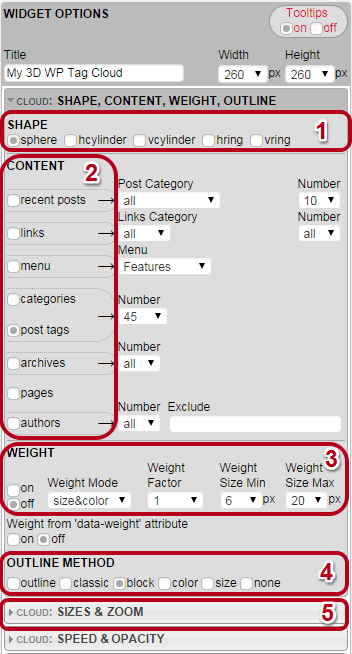
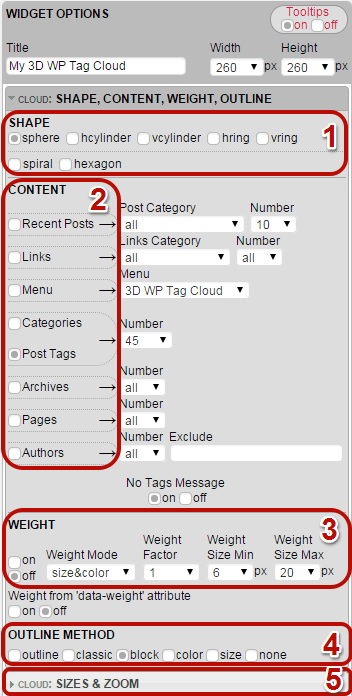
Added two new 2D shapes: spiral and hexagon.
git-svn-id: https://plugins.svn.wordpress.org/my-wp-tagcanvas/trunk@1104373 b8457f37-d9ea-0310-8a92-e5e31aec5664

diff --git a/help/s.user.guide.htm b/help/s.user.guide.htm
@@ -38,7 +38,7 @@
 						<span style='font-size:16pt;'>3D WP Tag Cloud-S User Guide</span>
 					</b>
 					<br>
-					<span style='font-size:14pt;'>Version 3.2.2</span>
+					<span style='font-size:14pt;'>Version 3.3</span>
 					<br>
 					<a href="https://wordpress.org/plugins/my-wp-tagcanvas/" target="_blank">https://wordpress.org/plugins/my-wp-tagcanvas/</a>
 				</p>
@@ -125,7 +125,7 @@
 					2. </span>
 					Choose <span class='green'>CONTENT</span>.
 				</p>
-				<p class="paragraph" style='margin: 0 0 178px'>
+				<p class="paragraph" style='margin: 0 0 236px'>
 					<i>
 						<b>N.B. </b>Depending on your choice later you may have to change the number of tags to be shown and/or where these tags come from (particular category or menu).
 					</i>
@@ -151,7 +151,7 @@
 				<p class="normal">
 					<i><b>N.B. </b>This is about tag&#8217;s reaction when mouse pointer goes over it.</i>
 				</p>
-				<p class="paragraph" style="margin: 0 0 76px;">
+				<p class="paragraph" style="margin: 0 0 16px;">
 					<span class='numbers'>
 					5. </span>
 					Go to section <span class='green'>CLOUD: SIZES &amp; ZOOM</span>.
@@ -159,7 +159,7 @@
 				<p class="normal">
 					<img width="353" height="333" src="image009.png" align="left">
 				</p>
-				<p class="paragraph" style='margin: 208px 0 0;'>
+				<p class="paragraph" style='margin: 160px 0 0;'>
 					<span class='numbers'>
 					1. </span>
 					Play with <span class='green'>Radius X</span>,
@@ -167,7 +167,8 @@
 				</p>
 				<p class="paragraph">
 					<i>
-						<b>N.B. </b>In order to avoid your tags from going beyond widget&#8217;s frame you have to fit the content of your cloud to it by these three options. Change
+						<b>N.B. </b>If a 2D shape <span class='green'>spiral</span> or <span class='green'>hexagon</span> is selected <span class='green'>Radius Z</span> is hidden. 
+						In order to avoid your tags from going beyond widget&#8217;s frame you have to fit the content of your cloud to it by these three options. Change
 						them all and equally. Otherwise you will modify the shape of the cloud. For instance if it is sphere, you can make it disk or cigar.
 					</i>
 				</p>
@@ -177,7 +178,7 @@
 					</i>
 				</p>
 
-				<p class="paragraph" style="margin: 0 0 76px;">
+				<p class="paragraph" style="margin: 0 0 56px;">
 					<span class='numbers'>
 					2. </span>
 					Go to section<span class='green'> CLOUD: SPEED &amp; OPACITY</span>.

diff --git a/js/jquery.tagcanvas.js b/js/jquery.tagcanvas.js
@@ -164,6 +164,47 @@ function PointsOnRingH(n, xr, yr, zr, offset) {
   offset = isNaN(offset) ? 0 : offset * 1;
   return Ring(1, n, xr, yr, zr, offset);
 }
+function PointsOnSpiral(n,xr,yr,zr) {
+  var px, py, pz=0, i, y = 1.4/sqrt(n), r, phi, pts = [], inc = Math.PI * (3-sqrt(5));
+  for(i = 0; i < n; i+=.7615){
+	phi = i*inc;
+	xr > 0 ? r = xr*y*sqrt(i) : r = yr*y*sqrt(i);
+	px = cos(phi)*r;
+	py = sin(phi)*r;
+	pts.push([px,py,pz]);
+  }
+return pts;
+}
+function PointsOnHexagon(n,xr,yr,zr) {
+  var r, l, px, py, pz = 0, pts = [], phi = Math.PI*2, phi1 = 0, phi2 = phi, l2 = 0, lev = Math.ceil((sqrt(8*(n-1)/6+1)-1)/2), h = 0, count = 0, j;
+  xr > 0 ? r = xr*lev*0.1 : r = yr*lev*0.1;
+  for(j = 0; j <= lev; j++){
+	l = r*j;
+	h = l*sin(phi/6);
+	if(Math.abs(Math.round(cos(phi2)*1000)) == 500||Math.abs(Math.round(cos(phi2)*1000)) == 1000){l2 = l} 
+	else{ 
+		if(Math.abs(Math.round(cos(phi2)*1000)) ==  866||Math.abs(Math.round(cos(phi2))) == 0) {l2=h} 
+		else {l2 = sqrt(pow((r*j-r/2),2)+pow((r*sin(phi2/6)),2))}
+	};
+	while(Math.round(phi1*1000) < Math.round(phi*1000)){
+		px=Math.round(cos(phi1)*l);
+		py=Math.round(sin(phi1)*l);
+		pts.push([px,py,pz]); 
+		count = count + 1;
+		if(count == n){break};
+		phi1 = phi1 + phi2;
+		if(Math.abs(Math.round(cos(phi1)*1000)) == 500||Math.abs(Math.round(cos(phi1)*1000)) == 1000){l = r*j} 
+		else { 
+			if(Math.abs(Math.round(cos(phi1)*1000)) == 866||Math.abs(Math.round(cos(phi1))) == 0) {l = h} 
+			else {l = sqrt(pow((r*j-r/2),2)+pow((r*sin(phi/6)),2))}
+		};
+	};
+	if(count==n){break};
+	phi1=0;
+	phi2=phi/(6*(j+1));
+  }
+return pts;
+}
 function SetAlpha(c,a) {
   var d = c, p1, p2, ae = (a*1).toPrecision(3) + ')';
   if(c[0] === '#') {
@@ -1466,7 +1507,9 @@ TCproto.Load = function() {
       vcylinder: PointsOnCylinderV,
       hcylinder: PointsOnCylinderH,
       vring: PointsOnRingV,
-      hring: PointsOnRingH
+      hring: PointsOnRingH,
+	  spiral: PointsOnSpiral,
+	  hexagon: PointsOnHexagon
     };
 
   if(tl.length) {

diff --git a/s.CP.php b/s.CP.php
@@ -25,7 +25,13 @@
 		jQuery(function() {jQuery( "#accordion-1" ).accordion({heightStyle: "content", collapsible: true, active: false}); jQuery( "#accordion-3, #accordion-6" ).accordion({heightStyle: "content", collapsible: true, active: false});});
 		};
 	 });
-	 
+// Check for 2d shape selection and hiding Radius Z 
+	function check43d(vis){
+		var raze;
+		if(vis == 'hidden'){raze = 0} else{raze = 1};
+		jQuery('#<?=$this->get_field_id('radius_z'); ?>').val(raze);
+		jQuery('#cont_<?=$this->get_field_id('radius_z'); ?>').css('visibility', vis);
+	}
 // Center Function Text check
 	function qutes_check(e,s){
 		if(/"/g.test(s) == true){
@@ -178,25 +184,34 @@
 			<span>SHAPE</span>
 		</div>
 		<div class="section_content" style="margin: 0 0 5px; padding: 0 0 5px; border-bottom: 1px solid #aaa;">
-			<input title="Sphere [Default]" class="radio" id="<?=$this->get_field_id('shape'); ?>"
+			<input title="Sphere" class="radio" id="<?=$this->get_field_id('shape'); ?>"
 			name="<?=$this->get_field_name('shape'); ?>" type="radio" value="sphere"   
-			<?php if( $shape == "sphere" ){ echo ' checked="checked"'; } ?>>sphere
+			<?php if( $shape == "sphere" ){ echo ' checked="checked"'; } ?> onclick="check43d('visible')";>sphere
 			
 			<input style="margin: 0 2px 0 3px;" title="Cylinder that starts off horizontal" class="radio" id="<?=$this->get_field_id('shape'); ?>"
 			name="<?=$this->get_field_name('shape'); ?>" type="radio" value="hcylinder"
-			<?php if( $shape == "hcylinder" ){ echo ' checked="checked"'; } ?>>hcylinder
+			<?php if( $shape == "hcylinder" ){ echo ' checked="checked"'; } ?> onclick="check43d('visible')";>hcylinder
 			
 			<input style="margin: 0 2px 0 3px;" title="Cylinder that starts off vertical" class="radio" id="<?=$this->get_field_id('shape'); ?>"
 			name="<?=$this->get_field_name('shape'); ?>" type="radio" value="vcylinder"
-			<?php if( $shape == "vcylinder" ){ echo ' checked="checked"'; } ?>>vcylinder
+			<?php if( $shape == "vcylinder" ){ echo ' checked="checked"'; } ?> onclick="check43d('visible')";>vcylinder
 			
 			<input style="margin: 0 2px 0 3px;" title="Horizontal circle" class="radio" id="<?=$this->get_field_id('shape'); ?>"
 			name="<?=$this->get_field_name('shape'); ?>" type="radio" value="hring"
-			<?php if( $shape == "hring" ){ echo ' checked="checked"'; } ?>>hring
+			<?php if( $shape == "hring" ){ echo ' checked="checked"'; } ?> onclick="check43d('visible')";>hring
 			
 			<input style="margin: 0 2px 0 3px;" title="Vertical circle" class="radio" id="<?=$this->get_field_id('shape'); ?>"
 			name="<?=$this->get_field_name('shape'); ?>" type="radio" value="vring"
-			<?php if( $shape == "vring" ){ echo ' checked="checked"'; } ?>>vring
+			<?php if( $shape == "vring" ){ echo ' checked="checked"'; } ?> onclick="check43d('visible')";>vring
+			<br>
+			<div class="thin-spacer" style="margin-bottom: 5px; border-bottom: 1px dotted #aaa;"></div>	
+			<input style="margin: 0 2px 0 0;" title="2D Spiral" class="radio" id="<?=$this->get_field_id('shape'); ?>"
+			name="<?=$this->get_field_name('shape'); ?>" type="radio" value="spiral"
+			<?php if( $shape == "spiral" ){ echo ' checked="checked"'; } ?> onclick="check43d('hidden')";>spiral
+
+			<input style="margin: 0 2px 0 3px;" title="2D Hexagon" class="radio" id="<?=$this->get_field_id('shape'); ?>"
+			name="<?=$this->get_field_name('shape'); ?>" type="radio" value="hexagon"
+			<?php if( $shape == "hexagon" ){ echo ' checked="checked"'; } ?> onclick="check43d('hidden')";>hexagon
 		</div>
 		<table>
 			<tr>
@@ -325,7 +340,6 @@
 							</select>
 						</label>  							
 						<br style="clear: both" />
-
 					<label style="margin: 19px 0 0 0; width: 220px; line-height: 13px;" title="Number of tags to display" for="<?=$this->get_field_id('tags'); ?>">
 						Number
 						<br>
@@ -506,13 +520,13 @@
 				<?php for($i=0; $i<1005; $i+=5){echo '<option id="ry_' . $i . '" value="' . $i/100 . '"'; if($radius_y==$i/100){echo ' selected';}; echo '>' . $i/100 . '</option>'; } ?>
 			</select>
 		</label>				
-		<label style="width: 90px;" title="Initial size of cloud from center to front and back." for="<?=$this->get_field_id('radius_z'); ?>">
+		<div style="width: 90px; float: left;<?php if($shape == 'spiral'||$shape == 'hexagon') {echo ' visibility: hidden;';}; ?>" title="Initial size of cloud from center to front and back." id="cont_<?=$this->get_field_id('radius_z'); ?>" <?php if($shape == 'spiral'||$shape == 'hexagon') {echo '; visibility: hidden;';}; ?>>
 			Radius Z 
 			<br>
 			<select id="<?=$this->get_field_id('radius_z'); ?>" name="<?=$this->get_field_name('radius_z'); ?>">
 				<?php for($i=0; $i<1005; $i+=5){echo '<option id="rz_' . $i . '" value="' . $i/100 . '"'; if($radius_z==$i/100){echo ' selected';}; echo '>' . $i/100 . '</option>'; } ?>
 			</select>
-		</label> 
+		</div> 
 		<label title="Controls the perspective." style="width: 58px;" for="<?=$this->get_field_id('depth'); ?>">
 			Depth 
 			<br>

diff --git a/3D.WP.Tag.Cloud.S.php b/3D.WP.Tag.Cloud.S.php
@@ -2,8 +2,8 @@
 /*
 Plugin Name: 3D WP Tag Cloud-S
 Plugin URI: http://peter.bg/archives/7373
-Description: This is the Single Cloud variation of 3D WP Tag Cloud. It creates multiple instances widget that draws and animates a HTML5 canvas based tag cloud. Plugin may rotate Pages, Recent Posts, External Links (blogroll), Menus, Blog Archives, List of Authors and of course Post Tags and Post Categories. Option values are preset and don't have to be typed but selected. Multiple fonts, multiple colors and multiple backgrounds can be applied to the cloud content. Full variety of fonts from Google Font Library is available. The plugin allows creating clouds of images. In case of Recent posts, Pages, Menus, List of Authors and External Links (blogroll) tags may consist of both image and text. It gives an option to put images and/or text in the center of the cloud. It accepts background images as well. The Number of tags in the cloud is adjustable. The plugin automatically includes WP Links panel for users who started using WP since v 3.5, when Links Manager and blogroll were made hidden by default. 3D WP Tag Cloud uses Graham Breach's Javascript class TagCanvas v. 2.6 and includes all its 80+ options in the Control Panel settings. Supports following shapes: sphere, hcylinder for a cylinder that starts off horizontal, vcylinder for a cylinder that starts off vertical, hring for a horizontal circle and vring for a vertical circle.
-Version: 3.2.2
+Description: This is the Single Cloud variation of 3D WP Tag Cloud. It creates multiple instances widget that draws and animates a HTML5 canvas based tag cloud. Plugin may rotate Pages, Recent Posts, External Links (blogroll), Menus, Blog Archives, List of Authors and of course Post Tags and Post Categories. Option values are preset and don't have to be typed but selected. Multiple fonts, multiple colors and multiple backgrounds can be applied to the cloud content. Full variety of fonts from Google Font Library is available. The plugin allows creating clouds of images. In case of Recent posts, Pages, Menus, List of Authors and External Links (blogroll) tags may consist of both image and text. It gives an option to put images and/or text in the center of the cloud. It accepts background images as well. The Number of tags in the cloud is adjustable. The plugin automatically includes WP Links panel for users who started using WP since v 3.5, when Links Manager and blogroll were made hidden by default. 3D WP Tag Cloud uses Graham Breach's Javascript class TagCanvas v. 2.6 and includes all its 80+ options in the Control Panel settings. Supports following shapes: sphere, hcylinder for a cylinder that starts off horizontal, vcylinder for a cylinder that starts off vertical, hring for a horizontal circle, vring for a vertical circle, 2D spiral and 2d hexagon.
+Version: 3.3
 Author: Peter Petrov
 Author URI: http://peter.bg
 Update Server: http://peter.bg/
